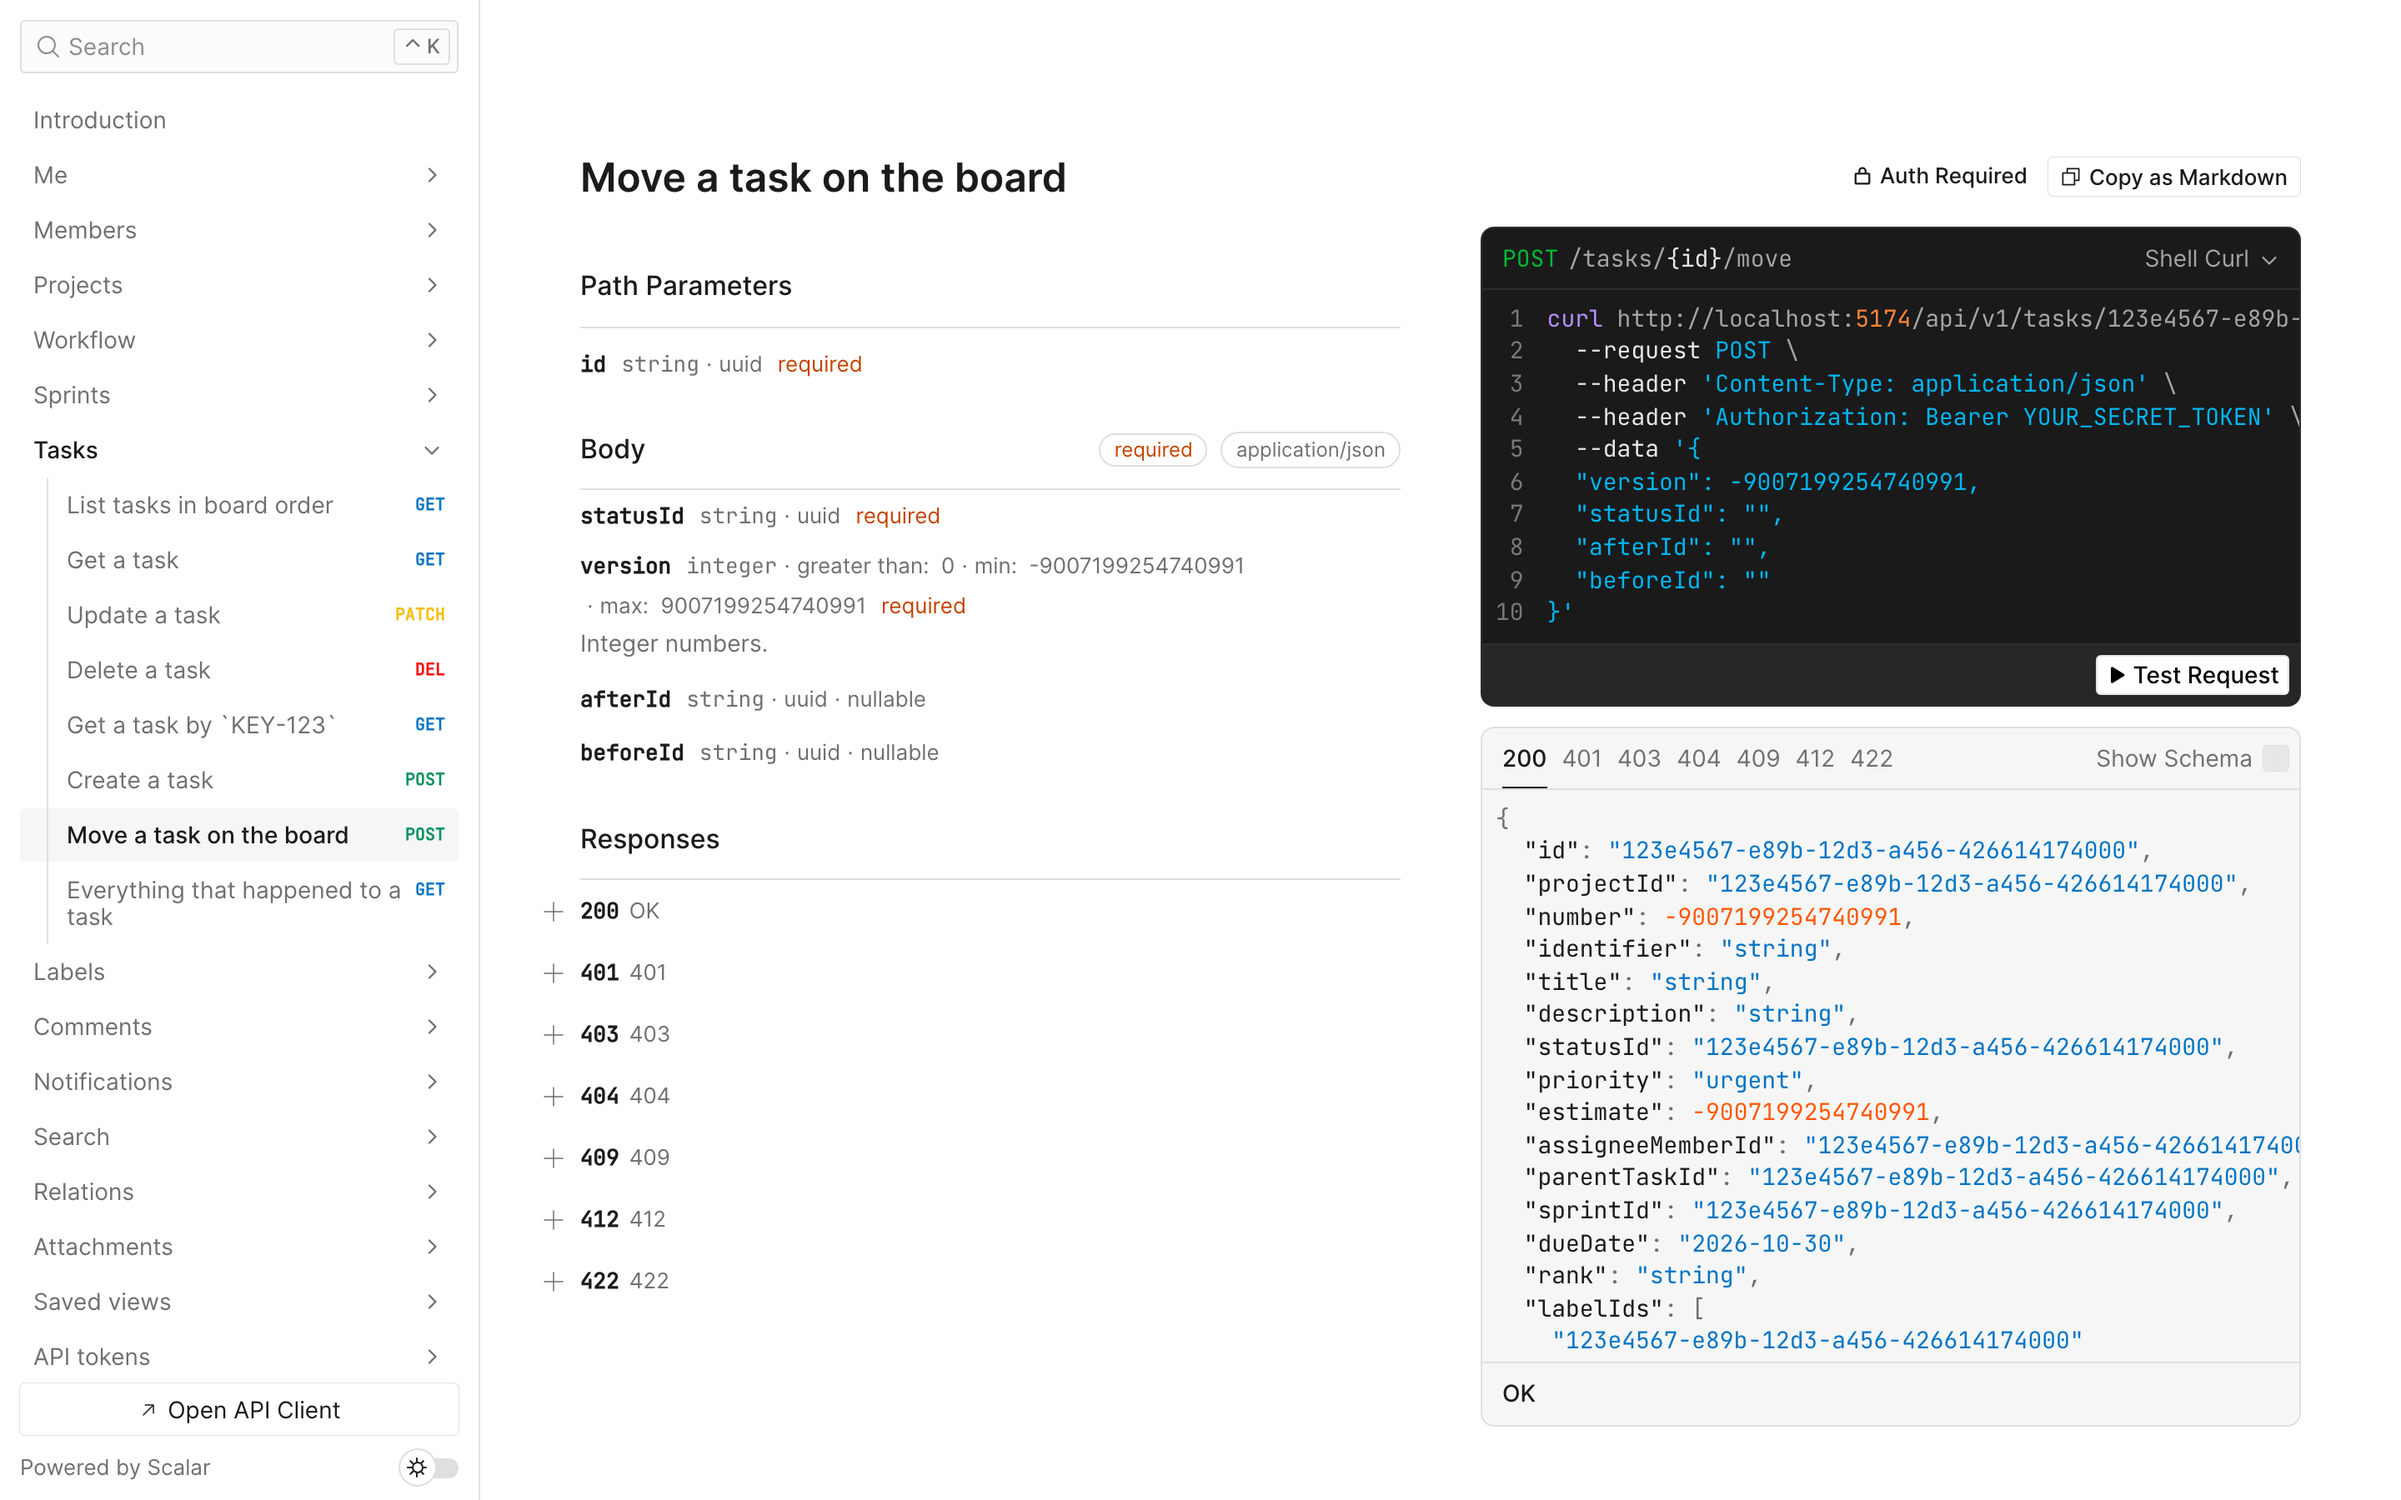
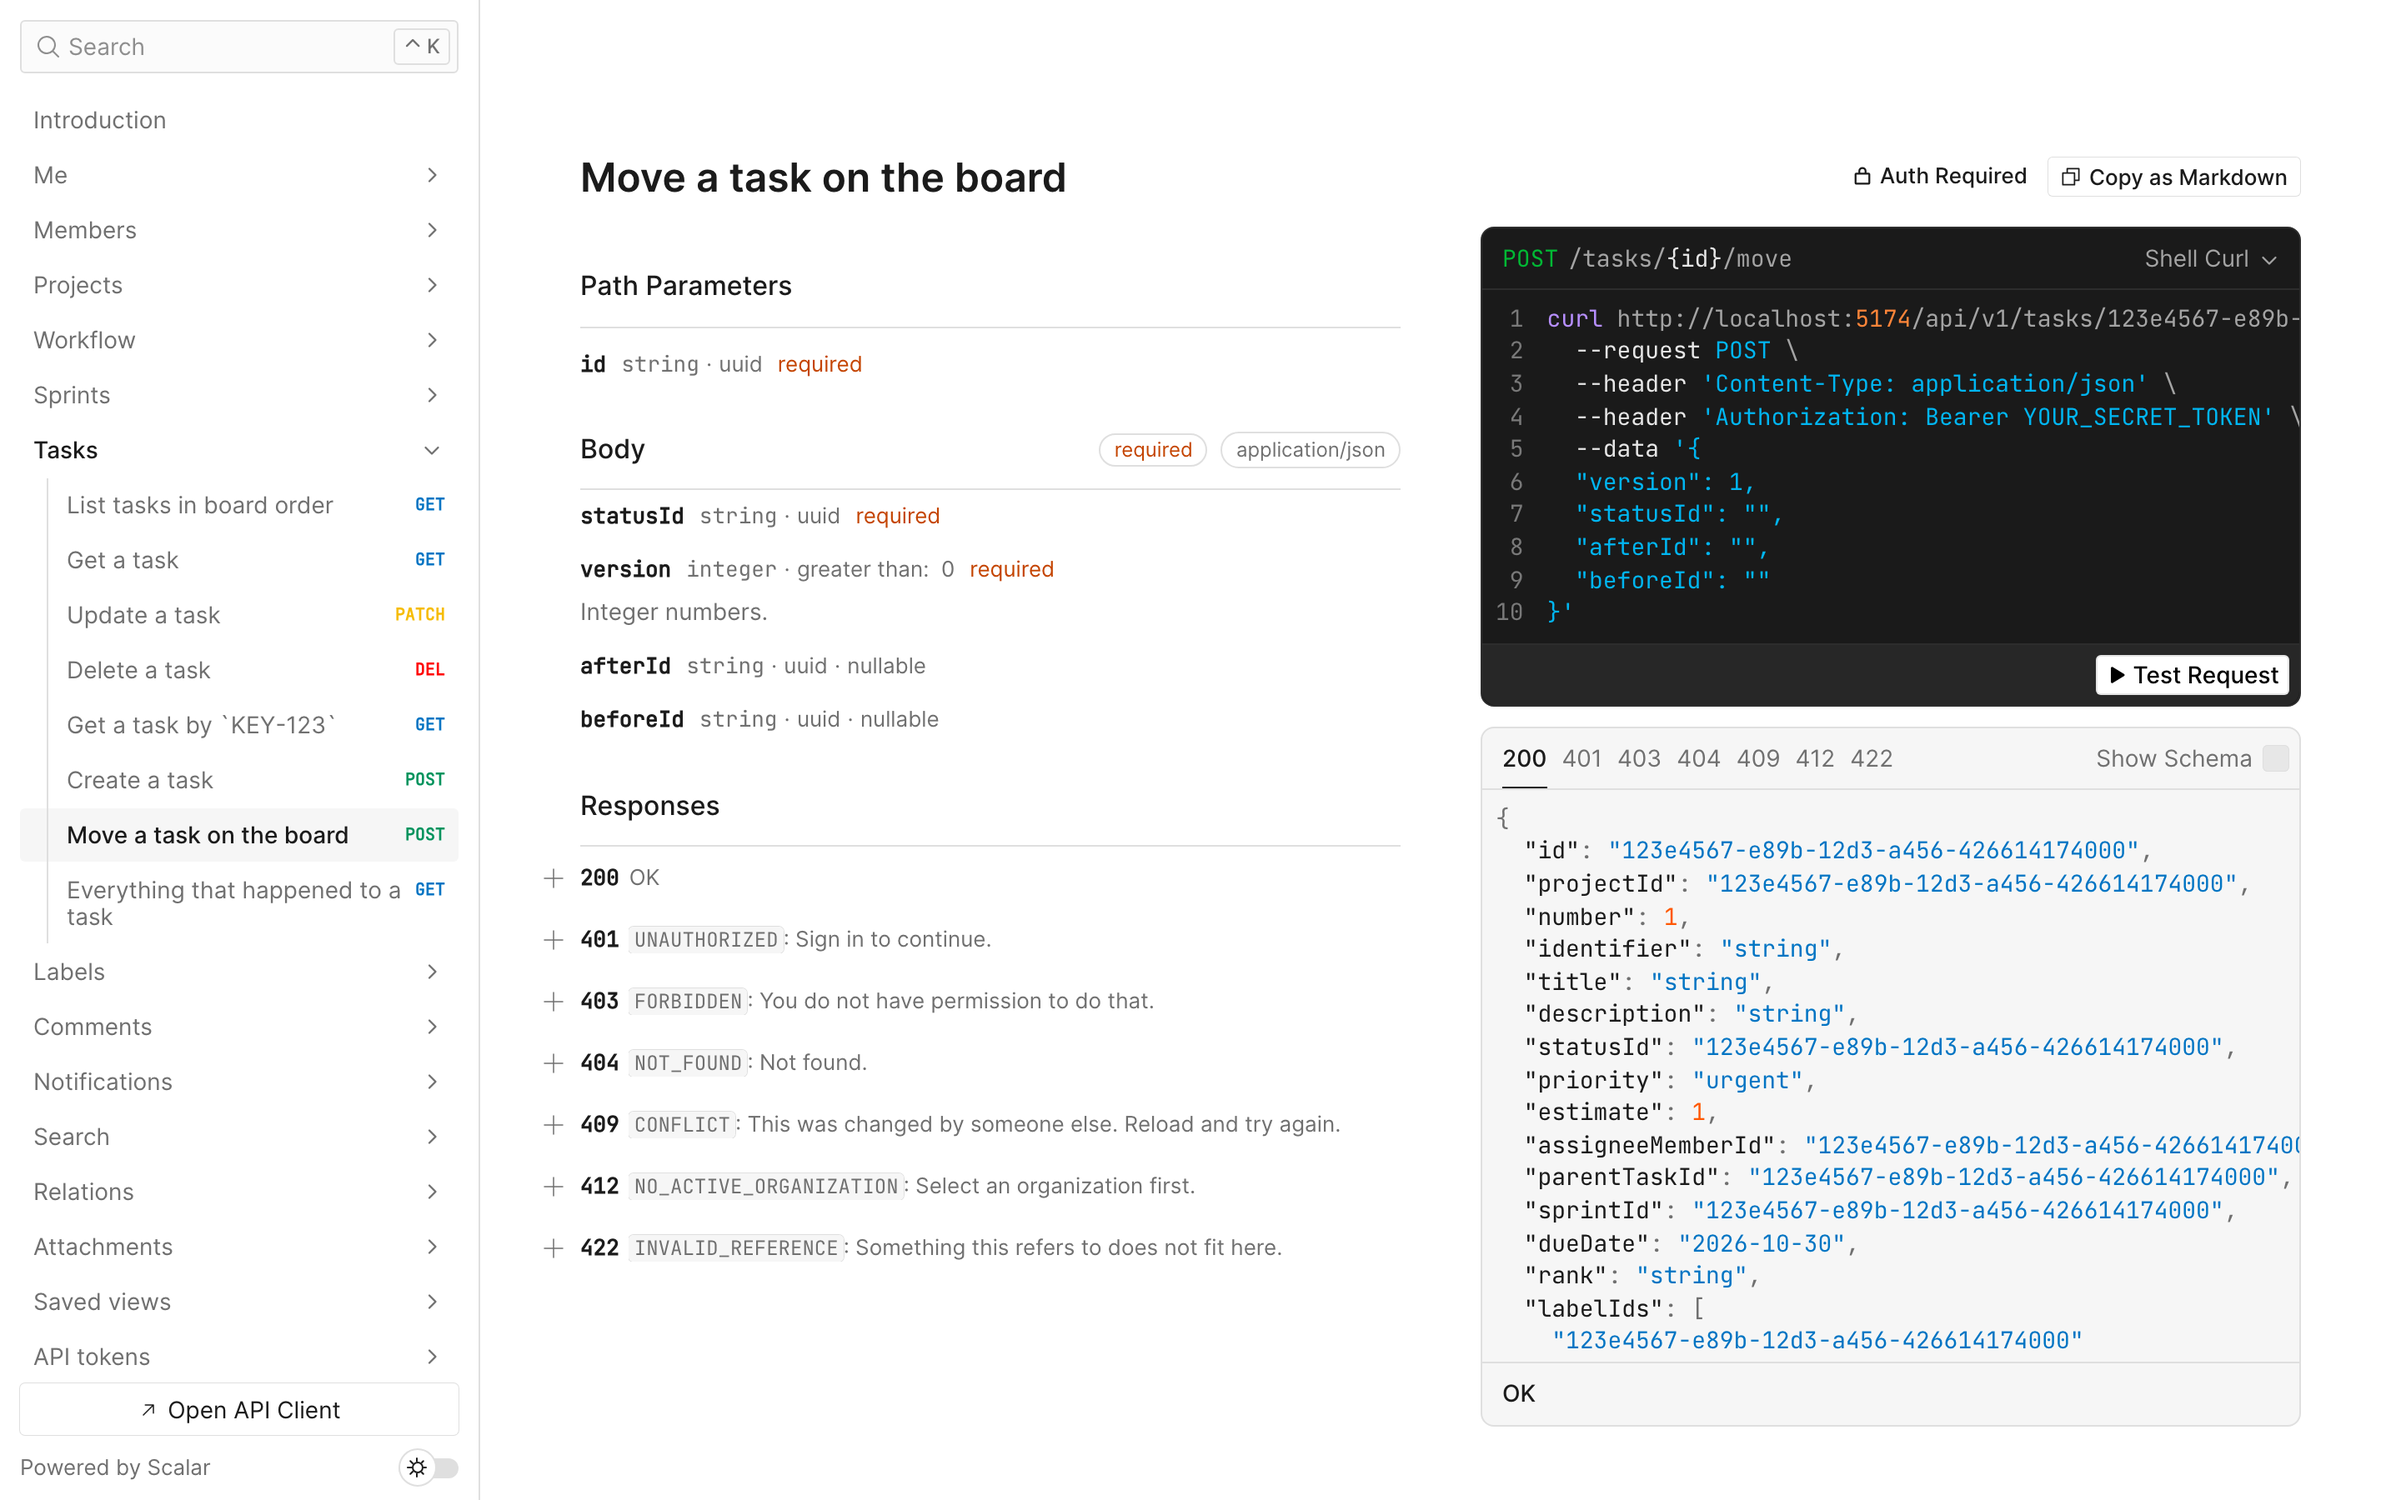
fix(api): clean up integer bounds and describe errors in the OpenAPI document

diff --git a/apps/api/src/openapi.ts b/apps/api/src/openapi.ts
@@ -4,8 +4,8 @@ import { contract } from '@teamflow/contract';
 
 const generator = new OpenAPIGenerator({ schemaConverters: [new ZodToJsonSchemaConverter()] });
 
-export function generateOpenApi(serverUrl: string) {
-  return generator.generate(contract, {
+export async function generateOpenApi(serverUrl: string) {
+  const document = await generator.generate(contract, {
     info: {
       title: 'TeamFlow API',
       version: '2.0.0',
@@ -25,6 +25,60 @@ export function generateOpenApi(serverUrl: string) {
         session: { type: 'apiKey', in: 'cookie', name: 'teamflow.session_token' },
       },
     },
+  });
+  return polish(document);
+}
+
+type Json = Record<string, unknown>;
+const isObject = (value: unknown): value is Json =>
+  typeof value === 'object' && value !== null && !Array.isArray(value);
+
+/**
+ * Two things the generator gets wrong for readers. Zod integers carry the safe-integer range as their bounds, so a
+ * positive version read "greater than 0, minimum -9007199254740991"; those default bounds are dropped. Error
+ * responses are described only by their status ("409"); each now lists the errors it can carry and their messages.
+ */
+export function polish<T>(document: T): T {
+  const visit = (node: unknown): void => {
+    if (Array.isArray(node)) {
+      for (const item of node) visit(item);
+      return;
+    }
+    if (!isObject(node)) return;
+    if (node.type === 'integer') {
+      if (node.minimum === Number.MIN_SAFE_INTEGER) delete node.minimum;
+      if (node.maximum === Number.MAX_SAFE_INTEGER) delete node.maximum;
+    }
+    for (const value of Object.values(node)) visit(value);
+  };
+  visit(document);
+
+  const paths = isObject(document) && isObject(document.paths) ? document.paths : {};
+  for (const operations of Object.values(paths)) {
+    if (!isObject(operations)) continue;
+    for (const operation of Object.values(operations)) {
+      if (!isObject(operation) || !isObject(operation.responses)) continue;
+      for (const [status, response] of Object.entries(operation.responses)) {
+        if (!isObject(response) || response.description !== status) continue;
+        const described = errorsIn(response);
+        if (described.length > 0) response.description = described.join(' ');
+      }
+    }
+  }
+  return document;
+}
+
+/** `CODE: message.` for each defined error in an error response's schema. */
+function errorsIn(response: Json): string[] {
+  const content = isObject(response.content) ? response.content['application/json'] : undefined;
+  const schema = isObject(content) ? content.schema : undefined;
+  const variants = isObject(schema) && Array.isArray(schema.oneOf) ? schema.oneOf : [];
+  return variants.flatMap((variant) => {
+    const properties = isObject(variant) && isObject(variant.properties) ? variant.properties : {};
+    const code = isObject(properties.code) ? properties.code.const : undefined;
+    const message = isObject(properties.message) ? properties.message.default : undefined;
+    if (typeof code !== 'string') return [];
+    return [typeof message === 'string' ? `\`${code}\`: ${message}` : `\`${code}\`.`];
   });
 }
 

diff --git a/apps/api/test/me.test.ts b/apps/api/test/me.test.ts
@@ -59,6 +59,22 @@ describe('platform routes', () => {
     expect(Object.keys(spec.paths)).toContain('/me');
   });
 
+  test('the OpenAPI document reads cleanly: no safe-integer bounds, described errors', async () => {
+    const text = await (await h.app.request('/api/openapi.json')).text();
+    expect(text).not.toContain(String(Number.MIN_SAFE_INTEGER));
+    expect(text).not.toContain(String(Number.MAX_SAFE_INTEGER));
+    const spec = JSON.parse(text) as {
+      paths: Record<string, Record<string, { responses: Record<string, { description: string }> }>>;
+    };
+    const move = spec.paths['/tasks/{id}/move']?.post;
+    expect(move?.responses['409']?.description).toBe(
+      '`CONFLICT`: This was changed by someone else. Reload and try again.',
+    );
+    for (const [status, response] of Object.entries(move?.responses ?? {})) {
+      if (status !== '200') expect(response.description).not.toBe(status);
+    }
+  });
+
   test('unknown routes are JSON 404s', async () => {
     const response = await h.app.request('/nope');
     expect(response.status).toBe(404);
